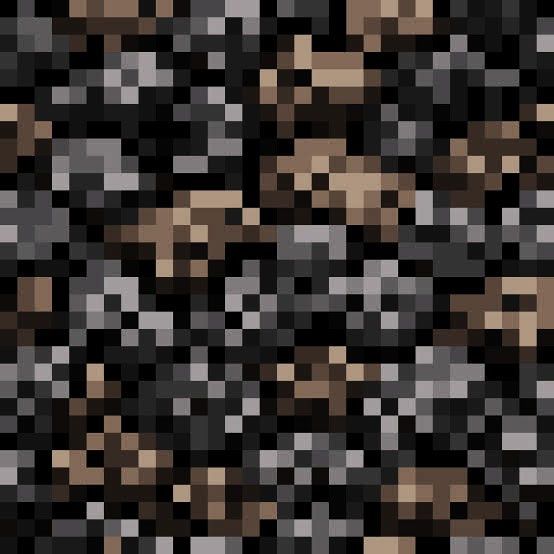
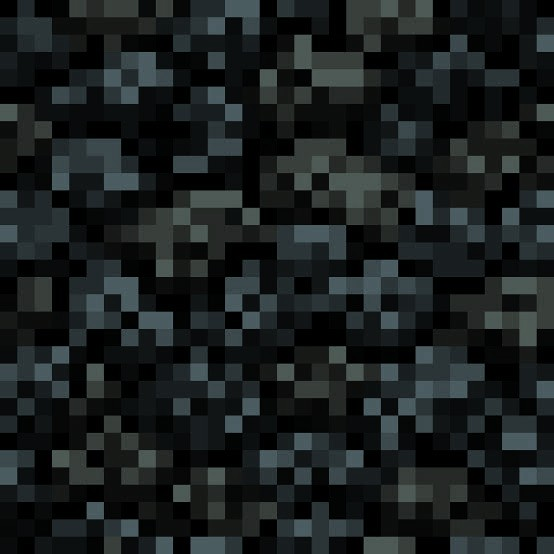
Include updated sprites and textures

diff --git a/HANDOFF.md b/HANDOFF.md
@@ -3,6 +3,8 @@
 Agente Codex, rama main. Base de sesión: b3eeba30cb0a464b6534a7015526988a04318200.
 Usuario solicitó terminar, apagar servidor, documentar y hacer push a GitHub. Este encabezado prevalece sobre relevos históricos inferiores. Commit de cierre: «Improve waterfront, boats and quest progression». Documento escrito antes del commit: confirmar resultado con git log y origin/main.
 
+Ampliación del cierre: primer push confirmado en fec4dbe. El usuario autorizó después incluir todos los archivos modificados, incluidos los 13 sprites/texturas pendientes. Segundo commit: «Include updated sprites and textures». Se verificó que las 13 imágenes se decodifican y tienen dimensiones válidas con System.Drawing; no se alteraron sus píxeles ni nombres. El servidor permanece apagado. Confirmar segundo commit/push con git log y origin/main; liberar la sesión adicional al concluir.
+
 ## Misión, cielo, audio y presentación
 - GRAHAM_BRIDGE_KEY_AVAILABLE=true: Graham entrega la llave tras recibir el Corazón del Bosque. El ciclo alcanza noche y queda detenido hasta recibir la llave; entonces conserva 25 segundos de noche antes del amanecer y libera el ciclo habitual. La entrega del corazón por sí sola ya no activa amanecer. Pausa conserva relojes de misión.
 - El cofre del mapa permanece bloqueado hasta recibir esa llave. Graham menciona el regalo en el otro cuarto para orientarse; la entrega es única.
@@ -32,7 +34,7 @@ Usuario solicitó terminar, apagar servidor, documentar y hacer push a GitHub. E
 - Pendiente: recorrido completo de demo en navegador (consola, audio, inventario, diálogos, muerte/reinicio) y revisar shader/flare/costas en distintos dispositivos. Las pruebas de geometría y shader por código no acreditan compilación GPU visual completa.
 - Servidor Node tools/serve.cjs PID 9360 detenido por solicitud; puerto 8000 sin listener tras cierre. Reiniciar con node tools/serve.cjs.
 - Recursos necesarios incluidos: capa1.png, mapa_menu.png, arena_mojada.png, fondo.png, forest.mpeg; retirar anteriores mapa_menu.jpg y forest.flac conforme reemplazos del usuario.
-- Excluir cambios locales ajenos: alamo1.png, alamo2.png, araucaria2.png, arbusto1.png, arbusto2.png, weed1.png, weed2.png, weed3.png, Tierra.png, muro.png, piedra.png, rocas.jpg, techo.jpg. Se preservan en disco y no forman parte del commit/push de esta sesión.
+- El segundo commit incluye por autorización explícita alamo1.png, alamo2.png, araucaria2.png, arbusto1.png, arbusto2.png, weed1.png, weed2.png, weed3.png, Tierra.png, muro.png, piedra.png, rocas.jpg y techo.jpg. Estas 13 imágenes habían quedado fuera del primer push y ahora forman parte del cierre completo.
 - .coordination contiene validación temporal ignorada por Git; no incorporar. No se agregaron dependencias para el jugador. AGENTS.md y docs/PROTOCOL.md actualizados para reflejar entrega de llave; enlace histórico actualizado en ANTIGRAVITY_HANDOFF.md.
 - Push autorizado a origin/main sin force. Liberar sesión después de confirmar commit/push con tools/session.ps1 finish -Agent Codex -Token d18d652f-7620-44c9-a075-2df5ba31a5d5.
 

diff --git a/DECISIONS.md b/DECISIONS.md
@@ -128,4 +128,4 @@
 - Modelos procedurales ligeros con Three.js, sin dependencias nuevas ni assets originales regenerados: restos de naufragio, barco hundido, troncos, mesón/hacha y tocón.
 - Bote sin remos con proporción 1:2. Giro inicial a izquierda y proa controlada por mirada horizontal; barrer giro y movimiento con huella orientada contra costas y río.
 - Asiento 0.70 detrás y ojos 0.70 más bajos que posición original. Flotación visual suave con cámara acompañando altura, conservando centro de navegación y control libre de mirada.
-- Cierre incluye solo código, documentación y recursos necesarios para solicitudes; otras ediciones de sprites/texturas se preservan locales fuera del commit.
+- El primer commit de cierre incluyó código, documentación y recursos necesarios. El usuario amplió después la autorización para subir todos los archivos modificados: las 13 ediciones pendientes de sprites y texturas se incorporan en un segundo commit sin modificar sus imágenes.
